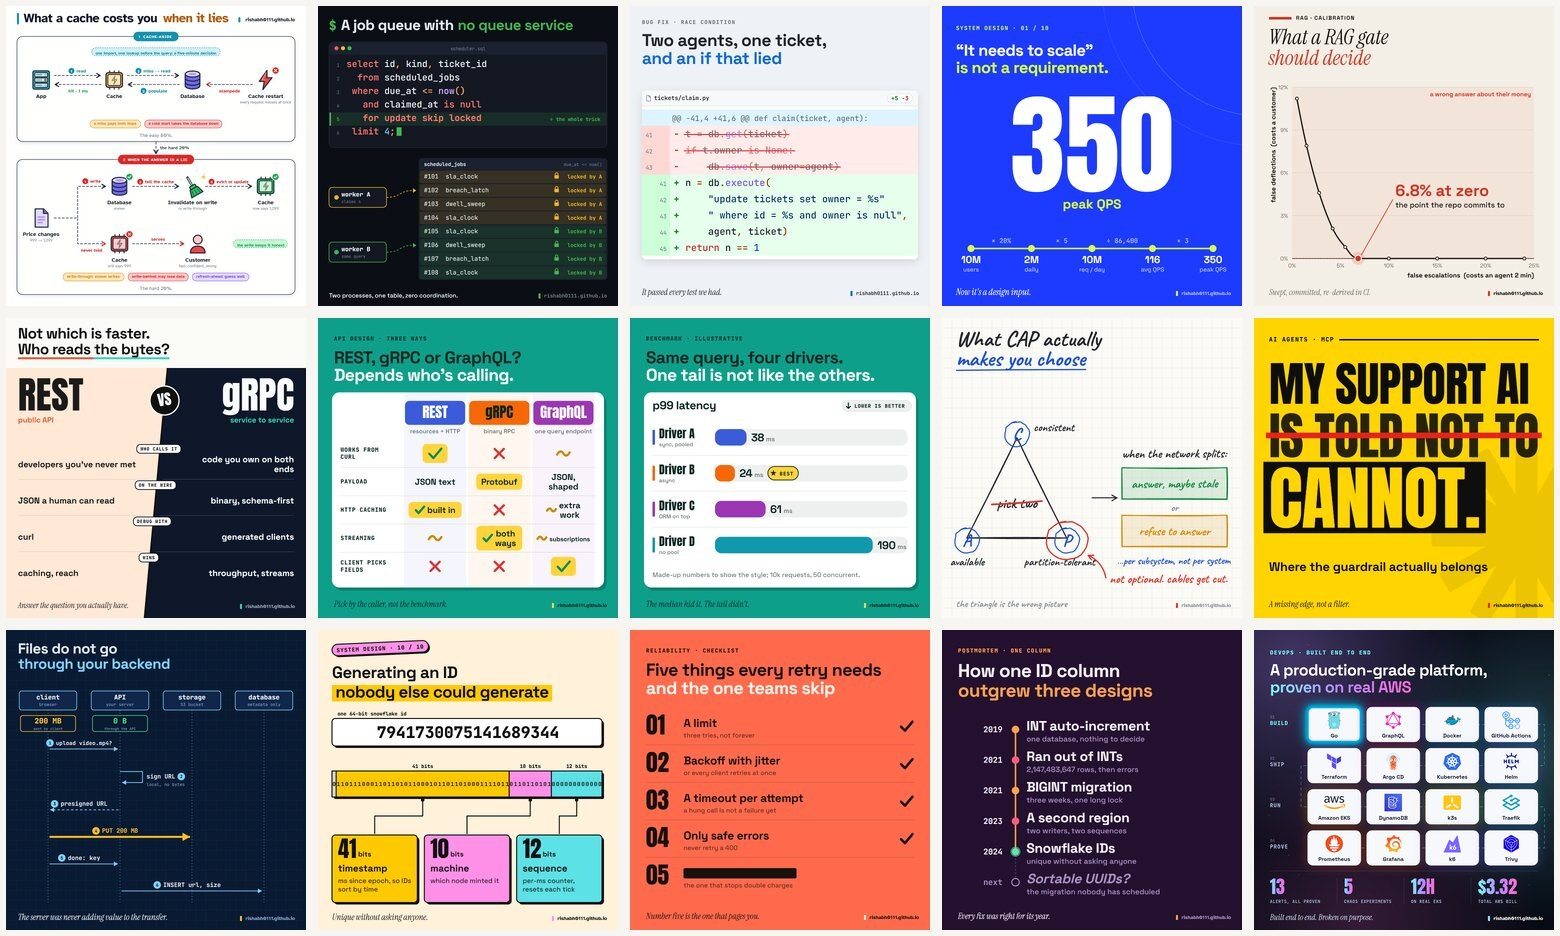
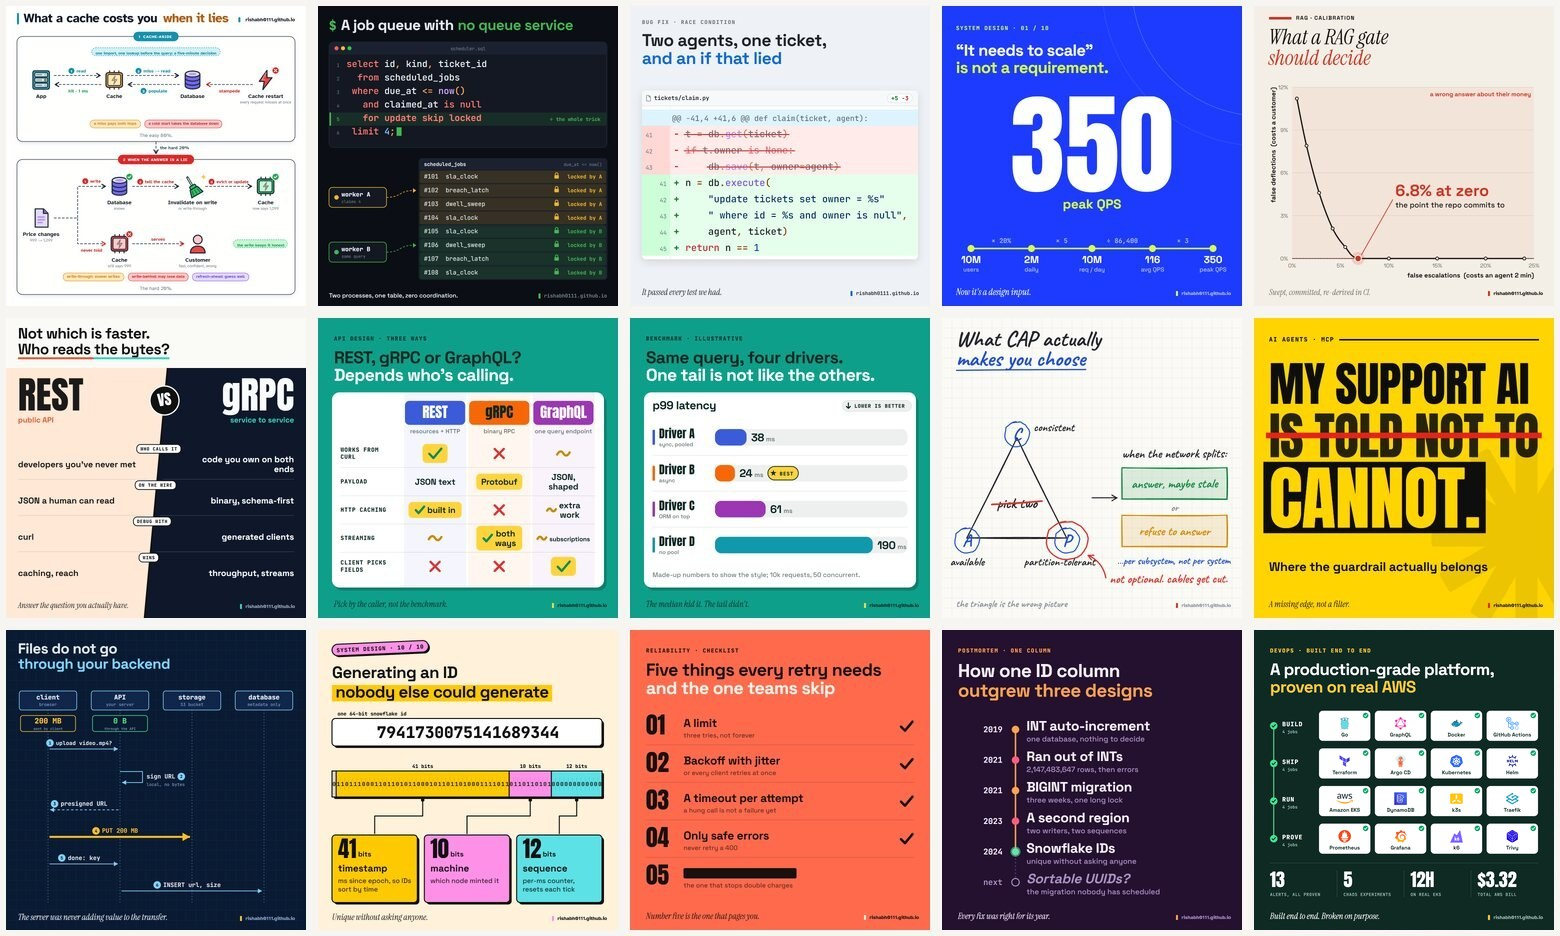
feat(styles): redraw stack as a CI run
The first cut leaned on neon glows, gradient text and a light sweep that
said nothing. The cover is now one green pipeline run on a flat pine
ground: jobs carry the logos, accent means running, green means passed,
and the loop resets and re-runs the stages in order.

Changed region(s): [[0.8, 0.6506, 1.0, 1.0]]

diff --git a/styles/stack.html b/styles/stack.html
@@ -5,130 +5,139 @@
 <script src="base.js"></script>
 <script src="brand-icons.js"></script>
 <script>
-/* STACK — a project showcase: the real logos of everything it is built with, as
-   lanes that read like the pipeline (build → ship → run → prove), over a stat
-   strip. `lanes[]` = { label, tiles: [{ brand, name? }] } with brand a key of
-   brand-icons.js; ≤ 4 lanes × ≤ 4 tiles. `stats[]` = { value, label }, ≤ 4.
-   Motion: a light packet snakes through every tile in order along a marching
-   dashed path; each tile flares in its own brand colour as the packet passes,
-   and its lane label lights with it. Text never moves; frame 0 is complete.
-   Use for a flagship project post, where the stack itself is the claim.     */
-const {el,text,fit,clamp,TAU}=CS, S=window.SPEC, B=window.BRANDS;
+/* STACK — a flagship project drawn as one green CI run: its stages
+   (build → ship → run → prove) down a spine, each stage's jobs as white cards
+   carrying the real logo of the tool, a stat strip under the board. Keys:
+     title, titleAccent (second line, accent), optional kicker, footnote, brand
+     lanes[]  ≤ 4 of { label, tiles: [{ brand, name? }] }, ≤ 4 tiles each;
+              brand is a key of brand-icons.js, name overrides its title
+     stats[]  ≤ 4 of { value, label }: the results the run proves
+   Colours: ground (pine), ink, accent (running: title accent, spinner, the
+   running card's outline). Passed is always green, as in every CI.
+   Motion: frame 0 is the finished run, every job passed. The run resets to
+   queued, then each job runs in order (accent outline, spinning badge) and
+   passes (check pops) while queued cards wait dimmed; a stage's node checks off with its last job and the
+   spine fills to the next stage; it ends all green again, which is frame 0.
+   Use for the few posts that showcase a whole project, where the stack
+   itself is the claim.                                                     */
+const {el,text,fit,phase,ease,clamp}=CS, S=window.SPEC, B=window.BRANDS;
 CS.run(()=>{
 const W=S.width||1200, H=S.height||1200, M=64;
-const C={bg:S.ground||"#070A14",ink:"#FFFFFF",soft:"#A9B4D0",tile:"#F7F8FC",tileInk:"#1C2233",
-         a1:S.accent1||"#7DF9FF",a2:S.accent2||"#B388FF",a3:S.accent3||"#FF6AD5"};
-const {svg,defs}=CS.setup(W,H,C.bg);
-const mk=(tag,attrs,kids)=>{const e=el(tag,attrs);(kids||[]).forEach(k=>e.appendChild(k));return e;};
-
-/* ground: three soft colour fields and a dot grid, a few of whose dots twinkle */
-[["g1",C.a2,.34,[.12,.10],.62],["g2",C.a1,.22,[.95,.42],.55],["g3",C.a3,.18,[.35,.98],.60]].forEach(([id,c,o,[cx,cy],r])=>{
-  defs.appendChild(mk("radialGradient",{id,cx,cy,r},[mk("stop",{offset:0,"stop-color":c,"stop-opacity":o}),mk("stop",{offset:1,"stop-color":c,"stop-opacity":0})]));
-  svg.appendChild(el("rect",{x:0,y:0,width:W,height:H,fill:`url(#${id})`})); });
-const dots=[], R=CS.rng(7);
-for(let y=20;y<H;y+=40)for(let x=20;x<W;x+=40){ const d=el("circle",{cx:x,cy:y,r:1.3,fill:"#FFFFFF",opacity:.06}); svg.appendChild(d); if(R()<.09) dots.push([d,R()]); }
-
-/* the accent gradient, shared by the title accent and the stat values */
-defs.appendChild(mk("linearGradient",{id:"acc",x1:0,y1:0,x2:1,y2:0},[mk("stop",{offset:0,"stop-color":C.a1}),mk("stop",{offset:.5,"stop-color":C.a2}),mk("stop",{offset:1,"stop-color":C.a3})]));
-const blur=(id,sd)=>defs.appendChild(mk("filter",{id,x:"-60%",y:"-60%",width:"220%",height:"220%"},[el("feGaussianBlur",{stdDeviation:sd})]));
-blur("glow",20); blur("soft",6); blur("ring",5);
+const C={bg:S.ground||"#0F2A23", ink:S.ink||"#FFFFFF", accent:S.accent||"#FFC94A",
+         soft:"#9DB8AE", rule:"#2A4C42", card:"#FFFFFF", cardInk:"#0F2A23",
+         pass:"#4ADE94", passCard:"#12A26A", queued:"#C9D2CE"};
+const {svg}=CS.setup(W,H,C.bg);
 
 /* kicker + title */
-let y=M+34;
-if(S.kicker){ svg.appendChild(text(M,y,S.kicker,{fill:C.a1,"font-family":"JetBrains Mono","font-size":22,"font-weight":800,"letter-spacing":3})); y+=16; }
-const TS=S.titleSize||64;
-[[S.title,C.ink],[S.titleAccent,"url(#acc)"]].filter(([s])=>s).forEach(([ln,fill])=>{ y+=TS*1.06;
-  const t=text(M,y,ln,{fill,"font-family":"Space Grotesk","font-weight":700,"letter-spacing":-1.5,"data-g":"title"}); svg.appendChild(t); fit(t,W-2*M,TS,34); });
+let y=M;
+if(S.kicker){ y+=26; svg.appendChild(text(M,y,S.kicker,{fill:C.accent,"font-family":"JetBrains Mono","font-size":22,"font-weight":800,"letter-spacing":3})); y+=20; }
+const TS=S.titleSize||66;
+[S.title,S.titleAccent].filter(Boolean).forEach((ln,i)=>{ y+=TS*1.06;
+  const t=text(M,y,ln,{fill:i?C.accent:C.ink,"font-family":"Space Grotesk","font-weight":700,"letter-spacing":-1.5,"data-g":"title"});
+  svg.appendChild(t); fit(t,W-2*M,TS,34); });
 
-/* lanes of logo tiles */
-const lanes=S.lanes||[], nL=lanes.length, LBL=150, GAP=22;
-const statH=S.stats?.length?150:0, top=y+46, bot=H-86-statH-10;
-const laneH=(bot-top)/Math.max(1,nL), tH=Math.min(146,laneH-24);
-const tiles=[], labels=[], pathPts=[];
-lanes.forEach((ln,li)=>{
-  const ly=top+li*laneH, cy=ly+laneH/2, n=ln.tiles.length;
-  const tW=(W-M-(M+LBL)-GAP*(n-1))/n;
-  const lab=text(M,cy+2,ln.label,{fill:C.soft,"font-family":"JetBrains Mono","font-size":21,"font-weight":800,"letter-spacing":2});
-  const idx=text(M,cy-24,String(li+1).padStart(2,"0"),{fill:C.soft,opacity:.5,"font-family":"JetBrains Mono","font-size":16,"font-weight":700,class:"free"});
-  svg.appendChild(idx); svg.appendChild(lab); fit(lab,LBL-18,21,14); labels.push(lab);
-  const order=li%2?[...Array(n).keys()].reverse():[...Array(n).keys()];
-  ln.tiles.forEach((tl,ti)=>{
+/* the board: a stage column with the spine, then the job cards */
+const lanes=(S.lanes||[]).slice(0,4), nL=lanes.length;
+const stats=(S.stats||[]).slice(0,4), statH=stats.length?150:0;
+const foot=S.footnote?118:92, top=y+58, bot=H-foot-statH-(statH?22:0);
+const laneH=(bot-top)/Math.max(1,nL), tH=Math.min(132,laneH-30), GAP=18;
+const SX=M+15, LBL=196, X0=M+LBL;
+const laneY=lanes.map((_,i)=>top+laneH*(i+.5));
+
+/* spine: a dashed track, and a solid fill that grows stage to stage */
+if(nL>1) svg.appendChild(el("line",{x1:SX,x2:SX,y1:laneY[0],y2:laneY[nL-1],stroke:C.rule,"stroke-width":4,"stroke-dasharray":"2 10","stroke-linecap":"round"}));
+const spine=el("line",{x1:SX,x2:SX,y1:laneY[0],y2:laneY[nL-1]||laneY[0],stroke:C.pass,"stroke-width":4,"stroke-linecap":"round"}); svg.appendChild(spine);
+
+/* status marks, drawn around (0,0): a check, and a three-quarter arc that spins */
+const CHECK="M-6.5 0.5L-2 5L7 -5";
+const arc=r=>`M${r} 0A${r} ${r} 0 1 1 0 ${-r}`;
+
+const jobs=[], stages=lanes.map((ln,li)=>{
+  const cy=laneY[li], tiles=(ln.tiles||[]).slice(0,4), n=Math.max(1,tiles.length);
+  /* stage node on the spine */
+  const node=el("g",{transform:`translate(${SX} ${cy})`}); svg.appendChild(node);
+  const ring=el("circle",{r:13,fill:C.bg,stroke:C.rule,"stroke-width":3}); node.appendChild(ring);
+  const spin=el("path",{d:arc(13),fill:"none",stroke:C.accent,"stroke-width":4,"stroke-linecap":"round",opacity:0}); node.appendChild(spin);
+  const done=el("g",{}); node.appendChild(done);
+  done.appendChild(el("circle",{r:15,fill:C.pass}));
+  done.appendChild(el("path",{d:CHECK,fill:"none",stroke:C.bg,"stroke-width":3.6,"stroke-linecap":"round","stroke-linejoin":"round"}));
+  /* stage name and its job count */
+  const name=text(SX+34,cy+2,String(ln.label||"").toUpperCase(),{fill:C.ink,"font-family":"JetBrains Mono","font-size":24,"font-weight":800,"letter-spacing":2,"data-g":"st"+li});
+  svg.appendChild(name); fit(name,LBL-34-18,24,14);
+  svg.appendChild(text(SX+34,cy+30,`${n} job${n>1?"s":""}`,{fill:C.soft,"font-family":"JetBrains Mono","font-size":17,"font-weight":700,"data-g":"st"+li}));
+  /* job cards */
+  const tW=(W-M-X0-GAP*(n-1))/n, ty=cy-tH/2;
+  tiles.forEach((tl,ti)=>{
     const b=B[tl.brand]; if(!b) throw new Error("unknown brand "+tl.brand);
-    const x=M+LBL+ti*(tW+GAP), ty=cy-tH/2;
-    tiles.push({li,ti,x,y:ty,w:tW,h:tH,cx:x+tW/2,cy,b,name:tl.name||b.title,order:order.indexOf(ti)});
+    const x=X0+ti*(tW+GAP), g=el("g",{}); svg.appendChild(g);
+    /* the running outline sits outside the card, on the ground, where the accent reads */
+    const run=el("rect",{x:x-6,y:ty-6,width:tW+12,height:tH+12,rx:20,fill:"none",stroke:C.accent,"stroke-width":5,opacity:0}); g.appendChild(run);
+    g.appendChild(el("rect",{x,y:ty,width:tW,height:tH,rx:15,fill:C.card}));
+    const L=Math.min(tH*.42,60), sz=b.title==="AWS"?L*1.3:L, lcy=ty+tH*.42;
+    const logo=document.importNode(new DOMParser().parseFromString(b.svg,"image/svg+xml").documentElement,true);
+    logo.setAttribute("x",x+tW/2-sz/2); logo.setAttribute("y",lcy-sz/2); logo.setAttribute("width",sz); logo.setAttribute("height",sz);
+    logo.setAttribute("preserveAspectRatio","xMidYMid meet"); g.appendChild(logo);
+    const nm=text(x+tW/2,ty+tH-17,tl.name||b.title,{fill:C.cardInk,"text-anchor":"middle","font-family":"Space Grotesk","font-size":21,"font-weight":700,"data-g":`j${li}${ti}`});
+    g.appendChild(nm); fit(nm,tW-22,21,13);
+    /* status badge, top right of the card: queued ring, spinner, or passed check */
+    const badge=el("g",{transform:`translate(${x+tW-19} ${ty+19})`}); g.appendChild(badge);
+    const bq=el("circle",{r:9,fill:"none",stroke:C.queued,"stroke-width":3,opacity:0}); badge.appendChild(bq);
+    const bs=el("path",{d:arc(9),fill:"none",stroke:C.cardInk,"stroke-width":3.4,"stroke-linecap":"round",opacity:0}); badge.appendChild(bs);
+    const bp=el("g",{}); badge.appendChild(bp);
+    bp.appendChild(el("circle",{r:11,fill:C.passCard}));
+    bp.appendChild(el("path",{d:CHECK,transform:"scale(.82)",fill:"none",stroke:"#FFFFFF","stroke-width":3.4,"stroke-linecap":"round","stroke-linejoin":"round"}));
+    jobs.push({li,g,run,bq,bs,bp});
   });
-});
-/* snake order: lane 1 left→right, lane 2 right→left, … */
-const seq=[...tiles].sort((p,q)=>p.li-q.li||p.order-q.order);
-seq.forEach(t=>pathPts.push([t.cx,t.cy]));
-let d=`M${pathPts[0][0]} ${pathPts[0][1]}`;
-for(let i=1;i<pathPts.length;i++){ const [x0,y0]=pathPts[i-1],[x1,y1]=pathPts[i];
-  if(y1===y0) d+=` L${x1} ${y1}`;
-  else { const ex=x0>W/2?W-M+26:M+LBL-26; d+=` L${ex} ${y0} L${ex} ${y1} L${x1} ${y1}`; } }
-const path=el("path",{d,fill:"none",stroke:C.a1,"stroke-opacity":.34,"stroke-width":3,"stroke-dasharray":"10 12","stroke-linecap":"round"});
-svg.appendChild(path);
-const LEN=path.getTotalLength();
-/* where along the path each tile sits, so the packet knows whom to light */
-const sAt=(x,y)=>{ let best=0,bd=1e9; for(let s=0;s<=LEN;s+=4){ const p=path.getPointAtLength(s), dd=(p.x-x)**2+(p.y-y)**2; if(dd<bd){bd=dd;best=s;} } return best; };
-
-tiles.forEach(t=>{
-  t.s=sAt(t.cx,t.cy);
-  const g=el("g",{}); svg.appendChild(g);
-  t.halo=el("rect",{x:t.x-10,y:t.y-10,width:t.w+20,height:t.h+20,rx:30,fill:t.b.glow,opacity:.22,filter:"url(#glow)"}); g.appendChild(t.halo);
-  g.appendChild(el("rect",{x:t.x,y:t.y,width:t.w,height:t.h,rx:22,fill:C.tile}));
-  t.ringGlow=el("rect",{x:t.x-2,y:t.y-2,width:t.w+4,height:t.h+4,rx:24,fill:"none",stroke:t.b.glow,"stroke-width":10,opacity:0,filter:"url(#ring)"}); g.appendChild(t.ringGlow);
-  t.ring=el("rect",{x:t.x+2,y:t.y+2,width:t.w-4,height:t.h-4,rx:20,fill:"none",stroke:t.b.glow,"stroke-width":5,opacity:0}); g.appendChild(t.ring);
-  const L=Math.min(t.h*.5,76), lx=t.cx-L/2, ly=t.y+t.h*.13;
-  const logo=document.importNode(new DOMParser().parseFromString(t.b.svg,"image/svg+xml").documentElement,true);
-  const sz=t.b.title==="AWS"?L*1.25:L;
-  logo.setAttribute("x",t.cx-sz/2); logo.setAttribute("y",ly+(L-sz)/2); logo.setAttribute("width",sz); logo.setAttribute("height",sz);
-  logo.setAttribute("preserveAspectRatio","xMidYMid meet"); g.appendChild(logo); t.logo=logo;
-  const nm=text(t.cx,t.y+t.h-18,t.name,{fill:C.tileInk,"text-anchor":"middle","font-family":"Space Grotesk","font-size":22,"font-weight":700,"data-g":"t"+t.li+t.ti});
-  g.appendChild(nm); fit(nm,t.w-20,22,14);
+  return {name,spin,done};
 });
 
-/* a diagonal light band, clipped to the tiles, crosses the grid once per loop */
-const gx0=Math.min(...tiles.map(t=>t.x)), gx1=Math.max(...tiles.map(t=>t.x+t.w)), gy0=Math.min(...tiles.map(t=>t.y)), gy1=Math.max(...tiles.map(t=>t.y+t.h));
-const tc=el("clipPath",{id:"tiles"}); tiles.forEach(t=>tc.appendChild(el("rect",{x:t.x,y:t.y,width:t.w,height:t.h,rx:22}))); defs.appendChild(tc);
-defs.appendChild(mk("linearGradient",{id:"band",x1:0,y1:0,x2:1,y2:0},[mk("stop",{offset:0,"stop-color":"#FFFFFF","stop-opacity":0}),mk("stop",{offset:.5,"stop-color":"#FFFFFF","stop-opacity":.75}),mk("stop",{offset:1,"stop-color":"#FFFFFF","stop-opacity":0})]));
-const sweepG=el("g",{"clip-path":"url(#tiles)"}); svg.appendChild(sweepG);
-const BW=220, band=el("rect",{x:0,y:gy0-400,width:BW,height:gy1-gy0+800,fill:"url(#band)",opacity:.0}); sweepG.appendChild(band);
+/* stat strip: what the run proves */
+if(statH){ const sy=H-foot-statH, n=stats.length, cw=(W-2*M)/n;
+  svg.appendChild(el("line",{x1:M,x2:W-M,y1:sy,y2:sy,stroke:C.rule,"stroke-width":2}));
+  stats.forEach((st,i)=>{ const x=M+i*cw+(i?26:0);
+    if(i) svg.appendChild(el("line",{x1:M+i*cw,x2:M+i*cw,y1:sy+30,y2:sy+statH-14,stroke:C.rule,"stroke-width":2}));
+    const v=text(x,sy+96,st.value,{fill:C.ink,"font-family":"Anton","font-size":72,"data-g":"s"+i}); svg.appendChild(v); fit(v,cw-40,72,40);
+    const l=text(x,sy+132,String(st.label).toUpperCase(),{fill:C.soft,"font-family":"JetBrains Mono","font-size":17,"font-weight":700,"letter-spacing":1,"data-g":"s"+i}); svg.appendChild(l); fit(l,cw-40,17,11); }); }
 
-/* the packet: a bright core, a halo and a short trail */
-const trail=[.05,.1,.16].map((_,i)=>{ const c=el("circle",{r:8-i*2,fill:C.a1,opacity:.5-i*.14,filter:"url(#soft)"}); svg.appendChild(c); return c; });
-const halo=el("circle",{r:22,fill:C.a1,opacity:.55,filter:"url(#glow)"}), core=el("circle",{r:8,fill:"#FFFFFF"});
-svg.appendChild(halo); svg.appendChild(core);
+if(S.footnote) svg.appendChild(text(M,H-44,S.footnote,{fill:C.ink,"font-family":"Instrument Serif","font-style":"italic","font-size":34}));
+CS.brand(svg,S,{fill:C.soft,bar:C.accent},W,H-44);
 
-/* stat strip */
-if(statH){ const sy=H-86-statH, n=S.stats.length, cw=(W-2*M)/n;
-  svg.appendChild(el("line",{x1:M,x2:W-M,y1:sy,y2:sy,stroke:"#FFFFFF","stroke-opacity":.12,"stroke-width":2}));
-  S.stats.forEach((st,i)=>{ const x=M+i*cw;
-    if(i) svg.appendChild(el("line",{x1:x,x2:x,y1:sy+26,y2:sy+statH-18,stroke:"#FFFFFF","stroke-opacity":.1,"stroke-width":2}));
-    const v=text(x+(i?28:0),sy+92,st.value,{fill:"url(#acc)","font-family":"Anton","font-size":72,"data-g":"s"+i}); svg.appendChild(v); fit(v,cw-40,72,40);
-    const l=text(x+(i?28:0),sy+128,st.label,{fill:C.soft,"font-family":"JetBrains Mono","font-size":17,"font-weight":700,"letter-spacing":1,"data-g":"s"+i}); svg.appendChild(l); fit(l,cw-40,17,11); }); }
-
-if(S.footnote) svg.appendChild(text(M,H-40,S.footnote,{fill:"#D9E0F2","font-family":"Instrument Serif","font-style":"italic","font-size":32}));
-CS.brand(svg,S,{fill:C.ink,bar:C.a1},W,H-40);
-
-/* frames: one lap of the path per loop, easing in and out so the wrap is invisible */
-const SIG=120;
+/* schedule: all passed until .05, back to queued over [.05,.11], the jobs run
+   in order over [.14,.86], then all green to the loop, which is frame 0 */
+const J=jobs.length, R0=.14, R1=.86, slot=(R1-R0)/Math.max(1,J);
+jobs.forEach((j,k)=>{ j.a=R0+slot*k; j.b=j.a+slot*.9; });
+stages.forEach((s,i)=>{ const own=jobs.filter(j=>j.li===i);
+  s.a=own.length?own[0].a:R0; s.b=own.length?own[own.length-1].b:R0; });
+const turn=(t,n)=>`rotate(${((t*n)%1*360).toFixed(1)})`;
 window.setFrame=(f,total)=>{
-  const t=f/total, u=t, s=LEN*u;
-  path.setAttribute("stroke-dashoffset",(-u*22*12).toFixed(1));
-  const P=q=>path.getPointAtLength(clamp(q,0,1)*LEN);
-  const fade=Math.min(clamp(u/.04),clamp((1-u)/.04));
-  const p=P(u); core.setAttribute("cx",p.x); core.setAttribute("cy",p.y); halo.setAttribute("cx",p.x); halo.setAttribute("cy",p.y);
-  core.setAttribute("opacity",(.35+.65*fade).toFixed(2)); halo.setAttribute("opacity",(.2+.4*fade).toFixed(2));
-  trail.forEach((c,i)=>{ const q=P(u-.012*(i+1)); c.setAttribute("cx",q.x); c.setAttribute("cy",q.y); c.setAttribute("opacity",((.5-i*.14)*fade).toFixed(2)); });
-  const laneOn=new Array(lanes.length).fill(0);
-  tiles.forEach(tl=>{ const k=Math.exp(-(((s-tl.s)/SIG)**2)); laneOn[tl.li]=Math.max(laneOn[tl.li],k);
-    tl.halo.setAttribute("opacity",(.22+.78*k).toFixed(3)); tl.ring.setAttribute("opacity",(k).toFixed(3)); tl.ringGlow.setAttribute("opacity",(.9*k).toFixed(3));
-    const sc=1+.07*k; tl.logo.setAttribute("transform",`translate(${tl.cx} ${tl.y+tl.h*.13+Math.min(tl.h*.5,76)/2}) scale(${sc.toFixed(3)}) translate(${-tl.cx} ${-(tl.y+tl.h*.13+Math.min(tl.h*.5,76)/2)})`); });
-  labels.forEach((l,i)=>l.setAttribute("fill",laneOn[i]>.4?C.a1:C.soft));
-  const w=clamp((u-.62)/.2), bx=gx0-BW-200+(gx1-gx0+BW+400)*CS.ease.inOut(w);
-  band.setAttribute("x",bx.toFixed(1)); band.setAttribute("opacity",(w>0&&w<1?.55:0).toFixed(2));
-  band.setAttribute("transform",`rotate(18 ${(bx+BW/2).toFixed(1)} ${((gy0+gy1)/2).toFixed(1)})`);
-  dots.forEach(([dd,ph])=>dd.setAttribute("opacity",(.06+.5*Math.max(0,Math.sin(TAU*(t*2+ph)))**6).toFixed(3)));
+  const t=f/total, run=t>=.11&&t<R1+.04;
+  /* 0 = passed, 1 = queued; fades across the reset */
+  const back=t<.05?0:t<.11?ease.inOut(phase(t,.05,.11)):0;
+  jobs.forEach(j=>{
+    const queued=back>0||(run&&t<j.a), running=run&&t>=j.a&&t<j.b, passed=!queued&&!running;
+    const pop=run&&passed?ease.back(clamp((t-j.b)/.03)):1;
+    j.bp.setAttribute("opacity",back>0?(1-back).toFixed(2):passed?1:0);
+    j.bp.setAttribute("transform",`scale(${(passed?.3+.7*pop:1).toFixed(3)})`);
+    j.bq.setAttribute("opacity",back>0?back.toFixed(2):queued?1:0);
+    j.bs.setAttribute("opacity",running?1:0); j.bs.setAttribute("transform",turn(t,12));
+    j.run.setAttribute("opacity",running?1:0);
+    /* queued cards sit back, so the run reads as the board lighting up */
+    j.g.setAttribute("opacity",back>0?(1-.5*back).toFixed(2):queued?.5:1);
+  });
+  stages.forEach(s=>{
+    const waiting=back>0||(run&&t<s.a), running=run&&t>=s.a&&t<s.b, passed=!waiting&&!running;
+    const pop=run&&passed?ease.back(clamp((t-s.b)/.035)):1;
+    s.done.setAttribute("opacity",back>0?(1-back).toFixed(2):passed?1:0);
+    s.done.setAttribute("transform",`scale(${(passed?.3+.7*pop:1).toFixed(3)})`);
+    s.spin.setAttribute("opacity",running?1:0); s.spin.setAttribute("transform",turn(t,8));
+    s.name.setAttribute("fill",running?C.accent:waiting?C.soft:C.ink);
+  });
+  /* the spine drains on reset, then fills one segment as each stage passes */
+  let reach=nL-1;
+  if(back>0) reach=(nL-1)*(1-back);
+  else if(run) reach=stages.slice(0,-1).reduce((a,s)=>a+ease.inOut(phase(t,s.b,s.b+.04)),0);
+  const span=laneY[nL-1]-laneY[0];
+  spine.setAttribute("y2",(laneY[0]+(nL>1?span*reach/(nL-1):0)).toFixed(1));
 };
 });
 </script>

diff --git a/palette.js b/palette.js
@@ -19,7 +19,7 @@ const pick = o => Object.fromEntries(KEYS.filter(k => o && o[k] != null).map(k =
 /* each style's own ground, for the contrast guard */
 const GROUND = { flow: "#FFFFFF", terminal: "#0B0E14", bignumber: "#1D3BFF", chart: "#F4EFE6", sketch: "#FBFAF5",
                  poster: "#FFD400", sequence: "#0A1A33", anatomy: "#FFF1DA", list: "#FF6A4D", timeline: "#24102F", diff: "#EEF1F5",
-                 stack: "#070A14", compare: "#FFFFFF" /* its accent sits on the white card, not the teal ground */ };
+                 stack: "#0F2A23", compare: "#FFFFFF" /* its accent sits on the white card, not the teal ground */ };
 const MIN = { accent: 3, ink: 4.5 };
 
 const lum = hex => { const m = /^#?([0-9a-f]{6})$/i.exec(String(hex || "").trim()); if (!m) return null;

diff --git a/styles/gallery.html b/styles/gallery.html
@@ -65,7 +65,7 @@ const STYLES=[
   ["anatomy","light","One artefact taken apart: an ID, a token, a URL, a log line."],
   ["list","colour","\"5 lessons\", \"7 mistakes\", a checklist. Redact the item the reader should open the post for."],
   ["timeline","dark","Events over dates: how a system evolved, a migration, an incident."],
-  ["stack","dark","A flagship project: the real logos of its stack in pipeline lanes, over a stat strip."],
+  ["stack","dark","A flagship project as one green CI run: its stack as jobs with real logos, stage by stage, over a stat strip."],
 ];
 const PLAN=window.FEED||[];
 let mode="anim", feed="plan";

diff --git a/STYLES.md b/STYLES.md
@@ -27,7 +27,7 @@ thumbnail size before anyone reads a word. The brand mark stays constant.
 | `anatomy` | `styles/anatomy.html` | cream, neo-brutalist | takes one artefact apart: an ID, a token, a URL | ≤ 4 parts |
 | `list` | `styles/list.html` | coral | is a list: "5 lessons", "7 mistakes", a checklist | ≤ 6 items × ≤ 6 words |
 | `timeline` | `styles/timeline.html` | aubergine | happens over dates: an evolution, a migration, an incident | ≤ 6 events |
-| `stack` | `styles/stack.html` | midnight, glowing tiles | is a flagship project, where the stack itself is the claim | ≤ 4 lanes × ≤ 4 logos, ≤ 4 stats |
+| `stack` | `styles/stack.html` | pine, CI board | is a flagship project, where the stack itself is the claim | ≤ 4 lanes × ≤ 4 logos, ≤ 4 stats |
 
 `flow` is documented in `README.md` and measured in `STYLE.md`. Each file in
 `styles/` documents its own spec keys in its header comment, and
@@ -111,10 +111,10 @@ composition, which is what LinkedIn (and most feeds) show if a GIF freezes.
   ink; marks punch as their row lights, and a `redact` bar shimmers.
 - **timeline** — the spine drains and refills to `now`, each dot popping as
   the line reaches it; the `now` dot keeps a ring pulsing.
-- **stack** — a light packet snakes through every tile in lane order along a
-  marching dashed path; each tile flares in its own brand colour as the packet
-  passes and its lane label lights, and a diagonal light band crosses the
-  grid once per loop.
+- **stack** — one CI run: the jobs reset to queued (dimmed), then run in
+  order, each with an accent outline and spinner, and pass with a popping
+  check; a stage's node checks off with its last job and the spine fills to
+  the next. It ends all green, which is frame 0.
 
 ## Shared by every style
 

diff --git a/README.md b/README.md
@@ -77,7 +77,7 @@ path); keep your specs in this repo or anywhere else.
 | `anatomy` | cream, neo-brutalist | takes one artefact apart: an ID, a token, a URL | ≤ 4 parts |
 | `list` | coral | is a list: "5 lessons", "7 mistakes", a checklist | ≤ 6 items × ≤ 6 words |
 | `timeline` | aubergine | happens over dates: an evolution, a migration, an incident | ≤ 6 events |
-| `stack` | midnight, glowing tiles | showcases a whole project, where the stack itself is the claim | ≤ 4 lanes × ≤ 4 logos, ≤ 4 stats |
+| `stack` | pine, CI board | showcases a whole project, where the stack itself is the claim | ≤ 4 lanes × ≤ 4 logos, ≤ 4 stats |
 
 The spec's `"style"` picks the template. Each template in `styles/` documents
 its own keys in its header comment, and `styles/samples/<style>/cover.json` is a
